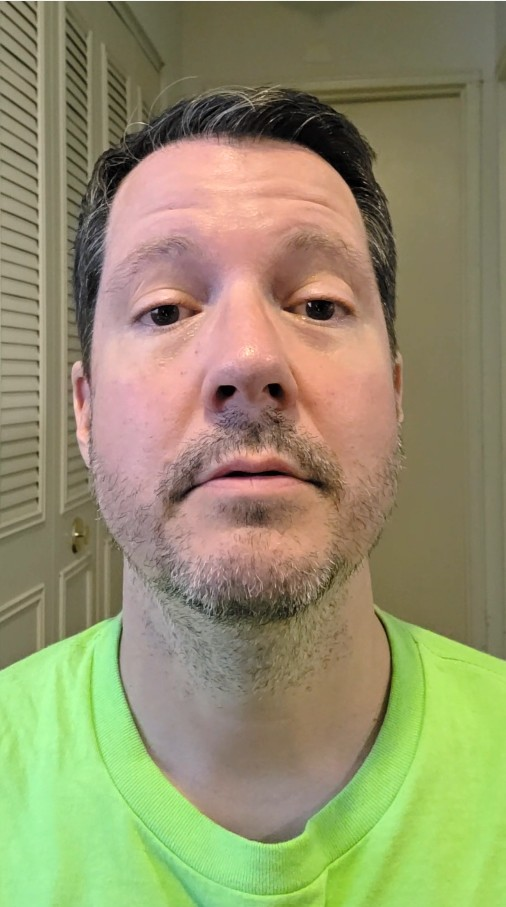
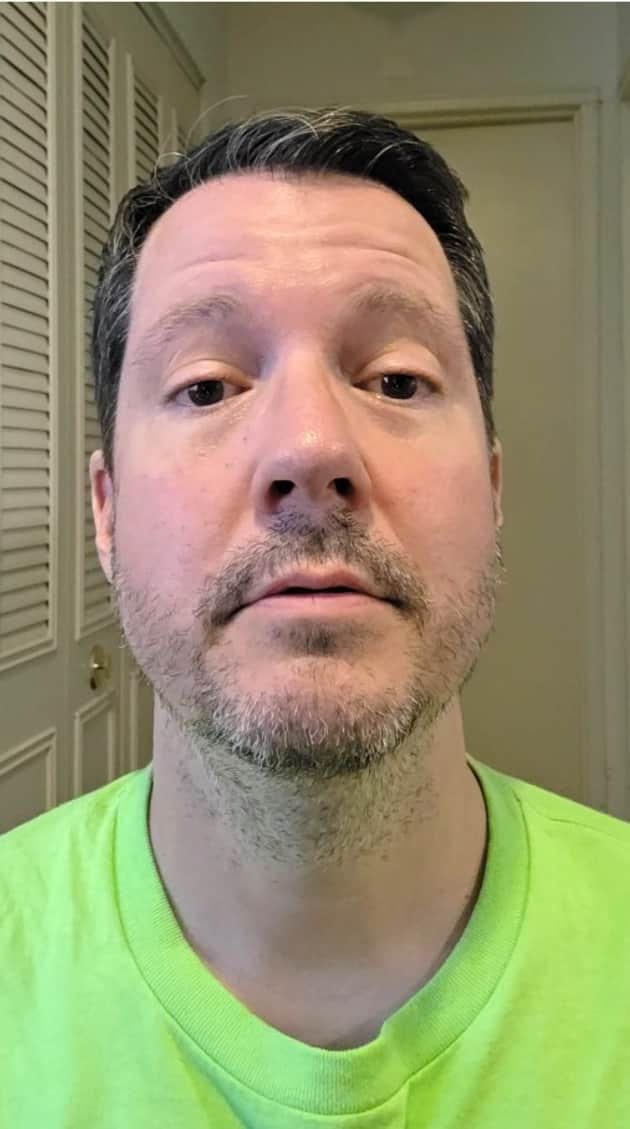
Improve mobile performance: defer hero canvas, shrink poster image
Particle canvas was mounting and animating immediately on hydration,
competing with LCP/TBT during the critical render window. Now delays
800ms and halves particle count on mobile (O(n^2) distance loop was
the main cost). Hero video poster was 506x907 displayed at 315px CSS
width; resized to match actual display size (630px @ 2x) and
recompressed, cutting it from 88KB to 44KB.

diff --git a/components/SplineHero.tsx b/components/SplineHero.tsx
@@ -1,8 +1,10 @@
 'use client';
-import { useEffect, useRef } from 'react';
+import { useEffect, useRef, useState } from 'react';
 
 const PARTICLE_COUNT = 90;
+const PARTICLE_COUNT_MOBILE = 45;
 const MAX_DIST = 160;
+const MOUNT_DELAY_MS = 800;
 
 interface Particle {
   x: number; y: number;
@@ -25,8 +27,16 @@ function pickColor() {
 
 export default function HeroBackground() {
   const canvasRef = useRef<HTMLCanvasElement>(null);
+  const [ready, setReady] = useState(false);
+
+  // Defer starting the animation so it doesn't compete with LCP/TBT on first paint
+  useEffect(() => {
+    const t = setTimeout(() => setReady(true), MOUNT_DELAY_MS);
+    return () => clearTimeout(t);
+  }, []);
 
   useEffect(() => {
+    if (!ready) return;
     const canvas = canvasRef.current as HTMLCanvasElement;
     if (!canvas) return;
     const ctx = canvas.getContext('2d') as CanvasRenderingContext2D;
@@ -37,7 +47,8 @@ export default function HeroBackground() {
     let particles: Particle[] = [];
 
     function spawn(w: number, h: number): Particle[] {
-      return Array.from({ length: PARTICLE_COUNT }, () => ({
+      const count = w < 768 ? PARTICLE_COUNT_MOBILE : PARTICLE_COUNT;
+      return Array.from({ length: count }, () => ({
         x: Math.random() * w,
         y: Math.random() * h,
         vx: (Math.random() - 0.5) * 0.28,
@@ -104,16 +115,15 @@ export default function HeroBackground() {
       animId = requestAnimationFrame(draw);
     }
 
-    // Use RAF to ensure browser has painted before measuring
-    const t = setTimeout(() => { resize(); draw(); }, 100);
+    resize();
+    draw();
     window.addEventListener('resize', resize);
 
     return () => {
-      clearTimeout(t);
       window.removeEventListener('resize', resize);
       cancelAnimationFrame(animId);
     };
-  }, []);
+  }, [ready]);
 
   return (
     <>